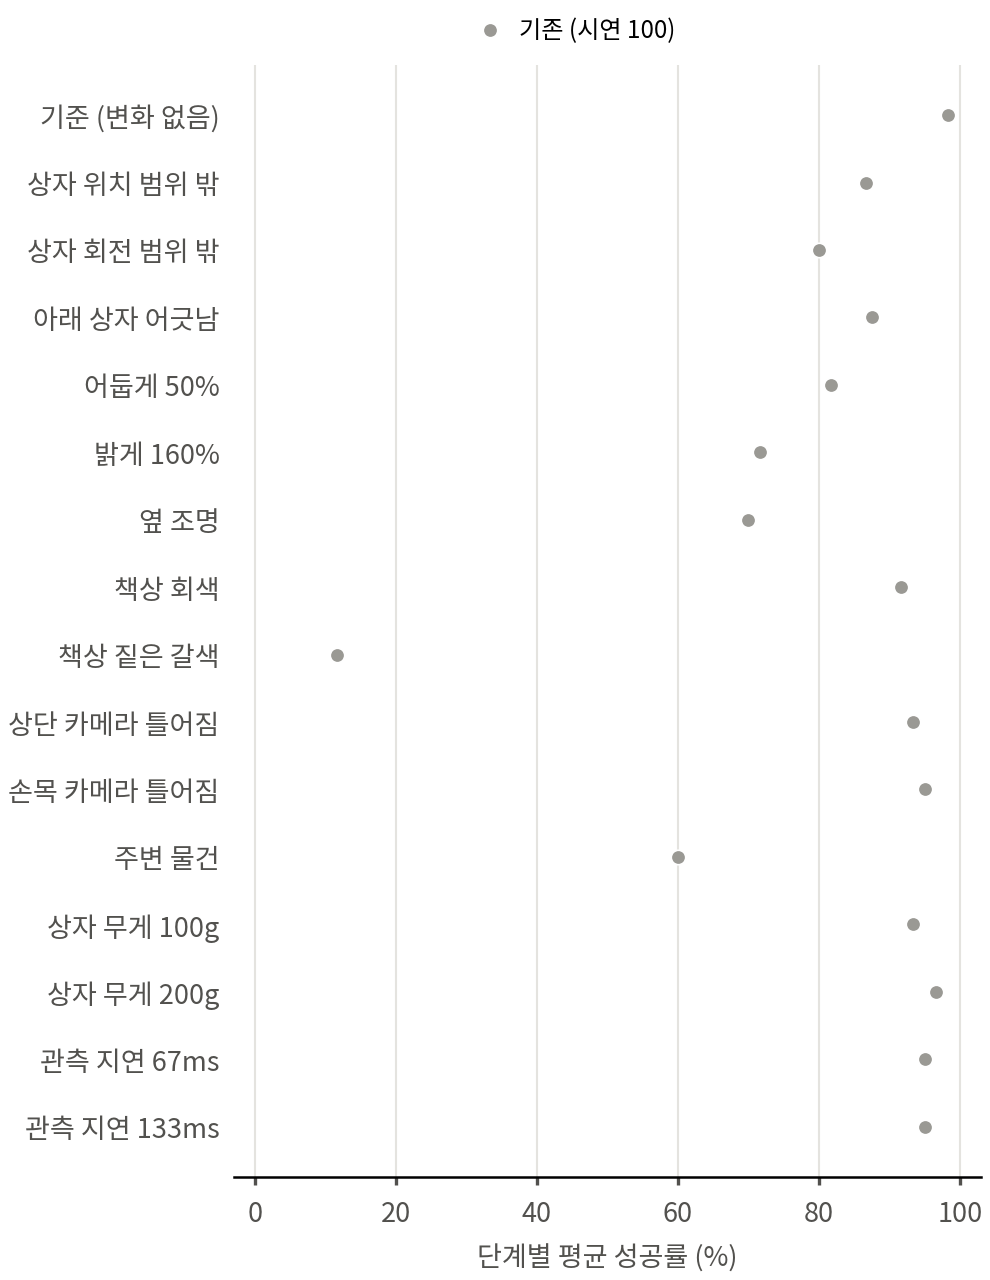
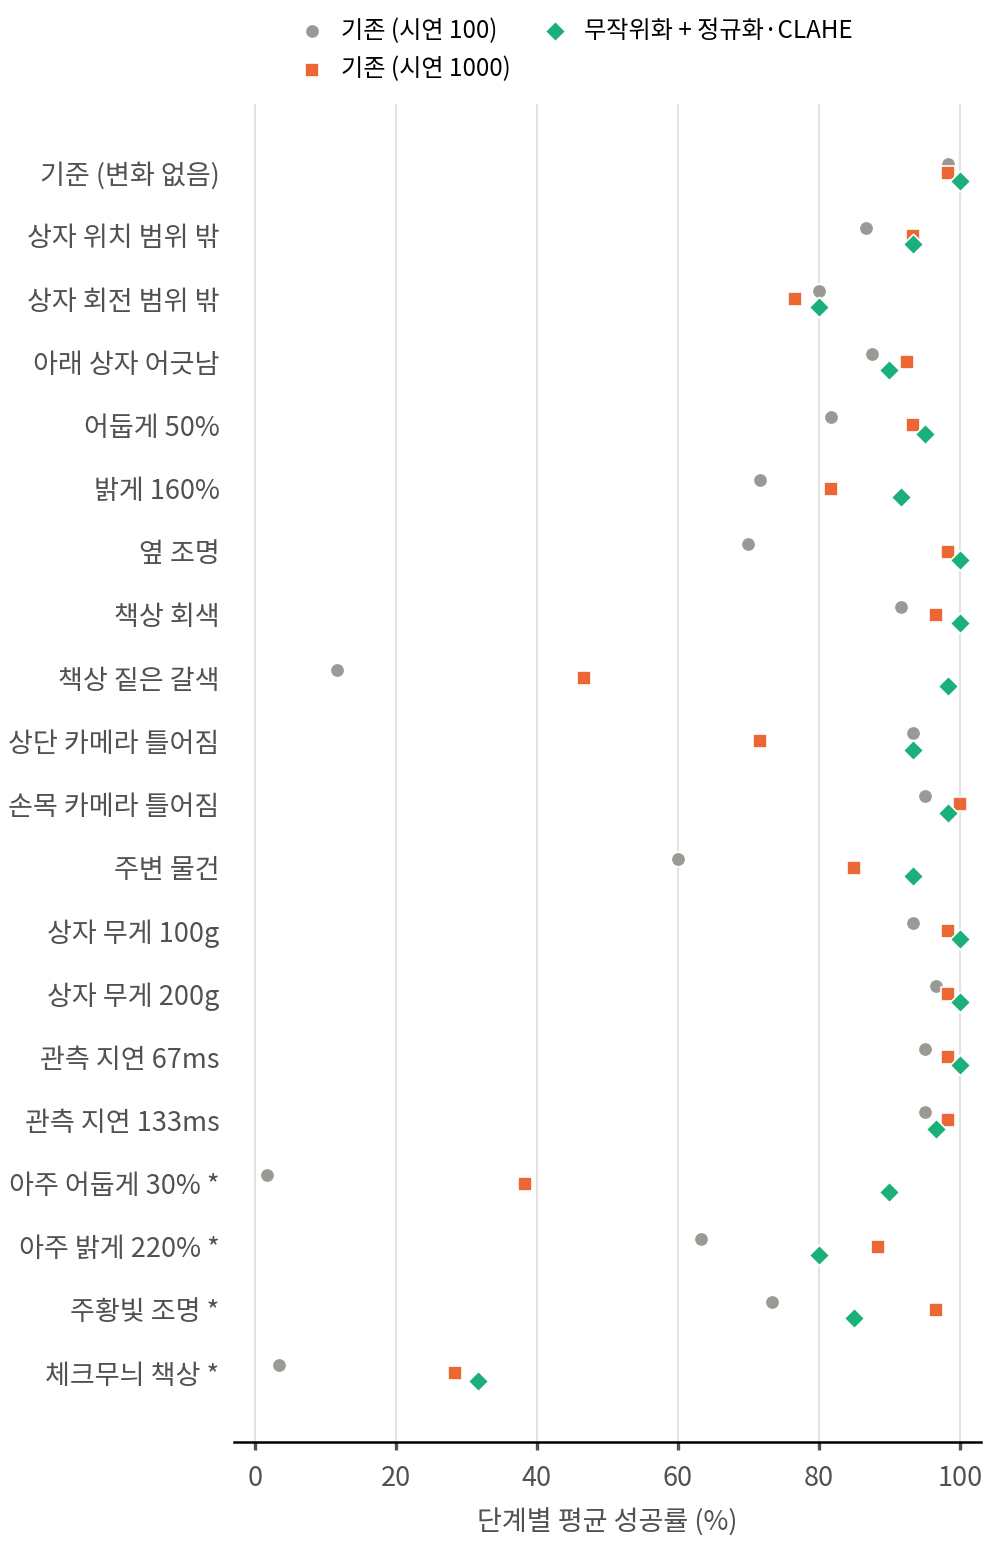
08_개인논문_ACT적재: 10/8 일지에 그림·GIF 추가 (견고성 비교 큰 GIF, 견고성 그림, 시연 수 그래프, 평가 GIF, 팔레타이징)

diff --git a/08_개인논문_ACT적재/코드/make_showcase.py b/08_개인논문_ACT적재/코드/make_showcase.py
@@ -90,7 +90,7 @@ def save(frames, path: Path, hold: int = 8):
 
 
 def scene_for(stage, trial, chained):
-    if chained or stage < 3:
+    if chained:
         rng = np.random.default_rng(EVAL_SEED0 + 90000 + trial)
         return rng, sample_scene(1, rng)
     rng = np.random.default_rng(EVAL_SEED0 + 1000 * stage + trial)
@@ -133,11 +133,18 @@ def main():
     ap.add_argument("--trial", type=int, default=0)
     ap.add_argument("--stage", type=int, default=1)
     ap.add_argument("--out", required=True)
+    ap.add_argument("--per-stage", action="store_true", help="use the per-stage evaluation scene (robust_eval seeds)")
+    ap.add_argument("--cond", default=None, help="robust_eval.py environment change applied to both runs (e.g. table_dark)")
     a = ap.parse_args()
     torch.set_num_threads(2)
-    env = StackEnv(render=True)
+    env = StackEnv(render=True, dr=a.cond is not None)
     home = ScriptedExpert(env).home_q()
     cam = Cam(env)
+    if a.cond:
+        from robust_eval import Perturb
+        pert = Perturb(env)
+        pert.renderers = [env.renderer, cam.r]
+        pert.apply(a.cond)
     out = Path(a.out)
     pols = [load_policy(p, "cpu", None) for p in a.ckpt]
     if a.mode == "chained":
@@ -150,7 +157,7 @@ def main():
         print({st: res[st][1] for st in res})
     else:
         pols2 = [load_policy(p, "cpu", None) for p in a.ckpt2]
-        chained = a.stage < 3
+        chained = a.stage < 3 and not a.per_stage
         r1 = play(env, cam, pols, home, a.label, a.stage, a.stage, a.trial, chained)[a.stage]
         r2 = play(env, cam, pols2, home, a.label2, a.stage, a.stage, a.trial, chained)[a.stage]
         n = max(len(r1[0]), len(r2[0]))

diff --git a/08_개인논문_ACT적재/일지/2026-10-08.md b/08_개인논문_ACT적재/일지/2026-10-08.md
@@ -2,6 +2,42 @@
 
 > 한 줄 요약 (07:10 기준): 시연 수를 1000 까지 늘려도 연속 성공률은 92~98% 로 시연 100 에서 이미 포화였다. 무작위화 + 정규화·CLAHE 는 책상 색·조명 변화에서 0~70% 이던 성공률을 90~100% 로 올렸고, 시연만 늘린 모델은 배경 변화에 여전히 약했다. 옆 단계에 남은 실패(1층 통이 옆 칸 쪽으로 밀릴 때 넘어짐)를 찾아 v8(간격 확보)로 고치는 중이고, 더 넓은 무작위화(v7)와 2×2 두 층 팔레타이징도 진행 중이다. 논문은 5쪽으로 다시 맞췄다.
 
+## 🎬 그림·영상으로 보기 (10/8)
+
+**같은 환경 변화에서 기존 모델(왼쪽) vs 무작위화 + 정규화·CLAHE 모델(오른쪽)** — 작은 창은 손목 카메라 화면 (`make_showcase.py --cond`, 단계별 평가 장면 0번)
+
+책상이 짙은 갈색일 때 (1층): 기존은 저울 위 통을 찾지 못해 실패, v6c 는 성공
+
+<img src="../결과/gif/showcase/cmp_robust_table_dark.gif" width="100%">
+
+조명이 아주 어두울 때(30%, 옆 단계): 기존은 실패, v6c 는 성공
+
+<img src="../결과/gif/showcase/cmp_robust_very_dark.gif" width="100%">
+
+**견고성 한눈에** — 조건별 단계 평균 성공률 (회색: 기존 시연 100, 주황: 시연 1000, 초록: 무작위화 + CLAHE, `*` = 무작위화 범위 밖)
+
+<img src="../결과/그림/fig_robust.png" width="60%">
+
+**시연 수에 따른 성공률** (논문 그림 4) — 시연 100 에서 이미 포화. 회색 점선은 잡는 벽이 바뀌던 v2 시연의 연속 성공률
+
+<img src="../결과/그림/fig3_scaling.png" width="60%">
+
+**평가 GIF (작은 창 3개: 전체 / 손목 / 상단 카메라)**
+
+| 시연 500 연속 ooo | 시연 1000 연속 ooo | 무작위화+CLAHE 연속 ooo |
+|---|---|---|
+| <img src="../결과/gif/v5_n500_chained_t00_ooo.gif" width="260"> | <img src="../결과/gif/v5_n1000_chained_t00_ooo.gif" width="260"> | <img src="../결과/gif/v6c_n1000_chained_t00_ooo.gif" width="260"> |
+
+| 조건 (1층) | 기존 (v4 n100) | 무작위화 + CLAHE (v6c) |
+|---|---|---|
+| 책상 짙은 갈색 | <img src="../결과/gif/robust_v4_n100_table_dark_s1_t00_fail.gif" width="260"> | <img src="../결과/gif/robust_v6c_n1000_table_dark_s1_t00_ok.gif" width="260"> |
+| 아주 어둡게 30% | <img src="../결과/gif/robust_v4_n100_very_dark_s1_t00_fail.gif" width="260"> | <img src="../결과/gif/robust_v6c_n1000_very_dark_s1_t00_ok.gif" width="260"> |
+| 옆 조명 | <img src="../결과/gif/robust_v4_n100_light_side_s1_t00_ok.gif" width="260"> | <img src="../결과/gif/robust_v6c_n1000_light_side_s1_t00_ok.gif" width="260"> |
+
+**2×2 두 층 팔레타이징 — 전문가가 8칸을 다 쌓은 모습** (배치 x 0.20 / y 0.03)
+
+<img src="../결과/그림/pallet_2x2x2_final_s0_final.png" width="60%">
+
 ## 어제(10/7)까지 요약
 
 | 항목 | 결과 |
@@ -192,6 +228,7 @@
 | 06:14 | 시연 1000 + 저울 재시도: 94% 그대로 (넘어짐은 저울로 못 잡음) |
 | 06:23 | 시연 1000·v6c 의 무작위화 범위 밖 견고성 완료 |
 | 07:00 | 논문 5쪽으로 압축 (그림·표 정리, 4.2·4.3 재작성) |
+| 07:40 | 견고성 비교 큰 GIF(책상 짙은 갈색, 아주 어둡게), 견고성 그림, 평가 GIF 를 일지 맨 위에 추가 |
 
 ## 다음에 할 것
 
